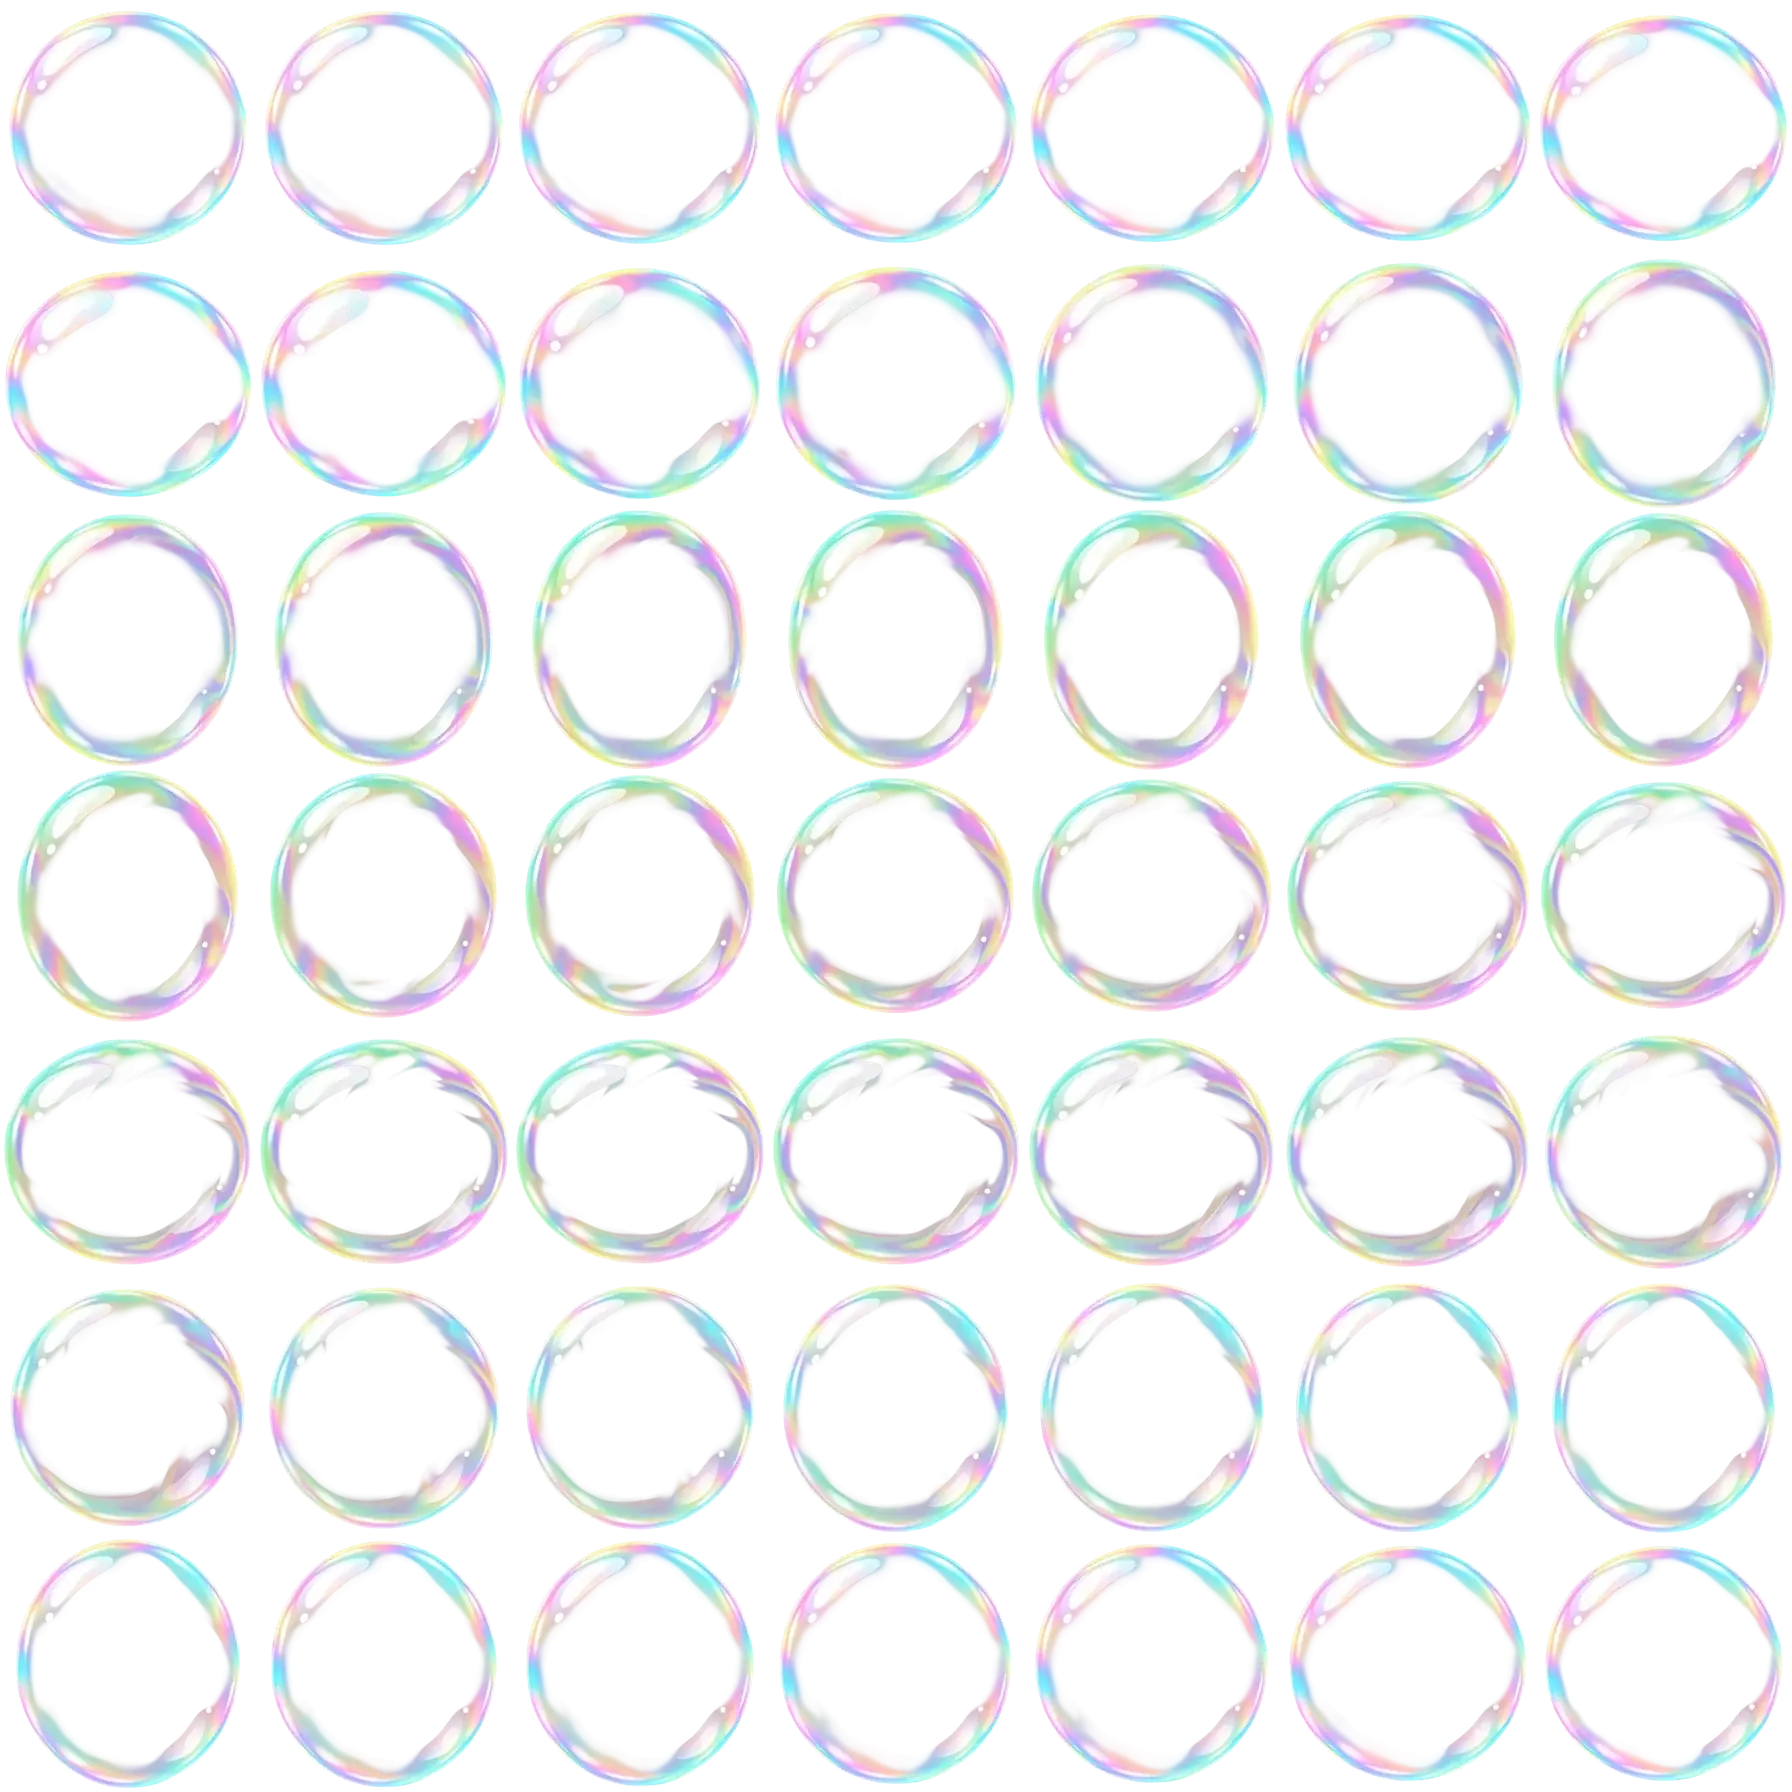
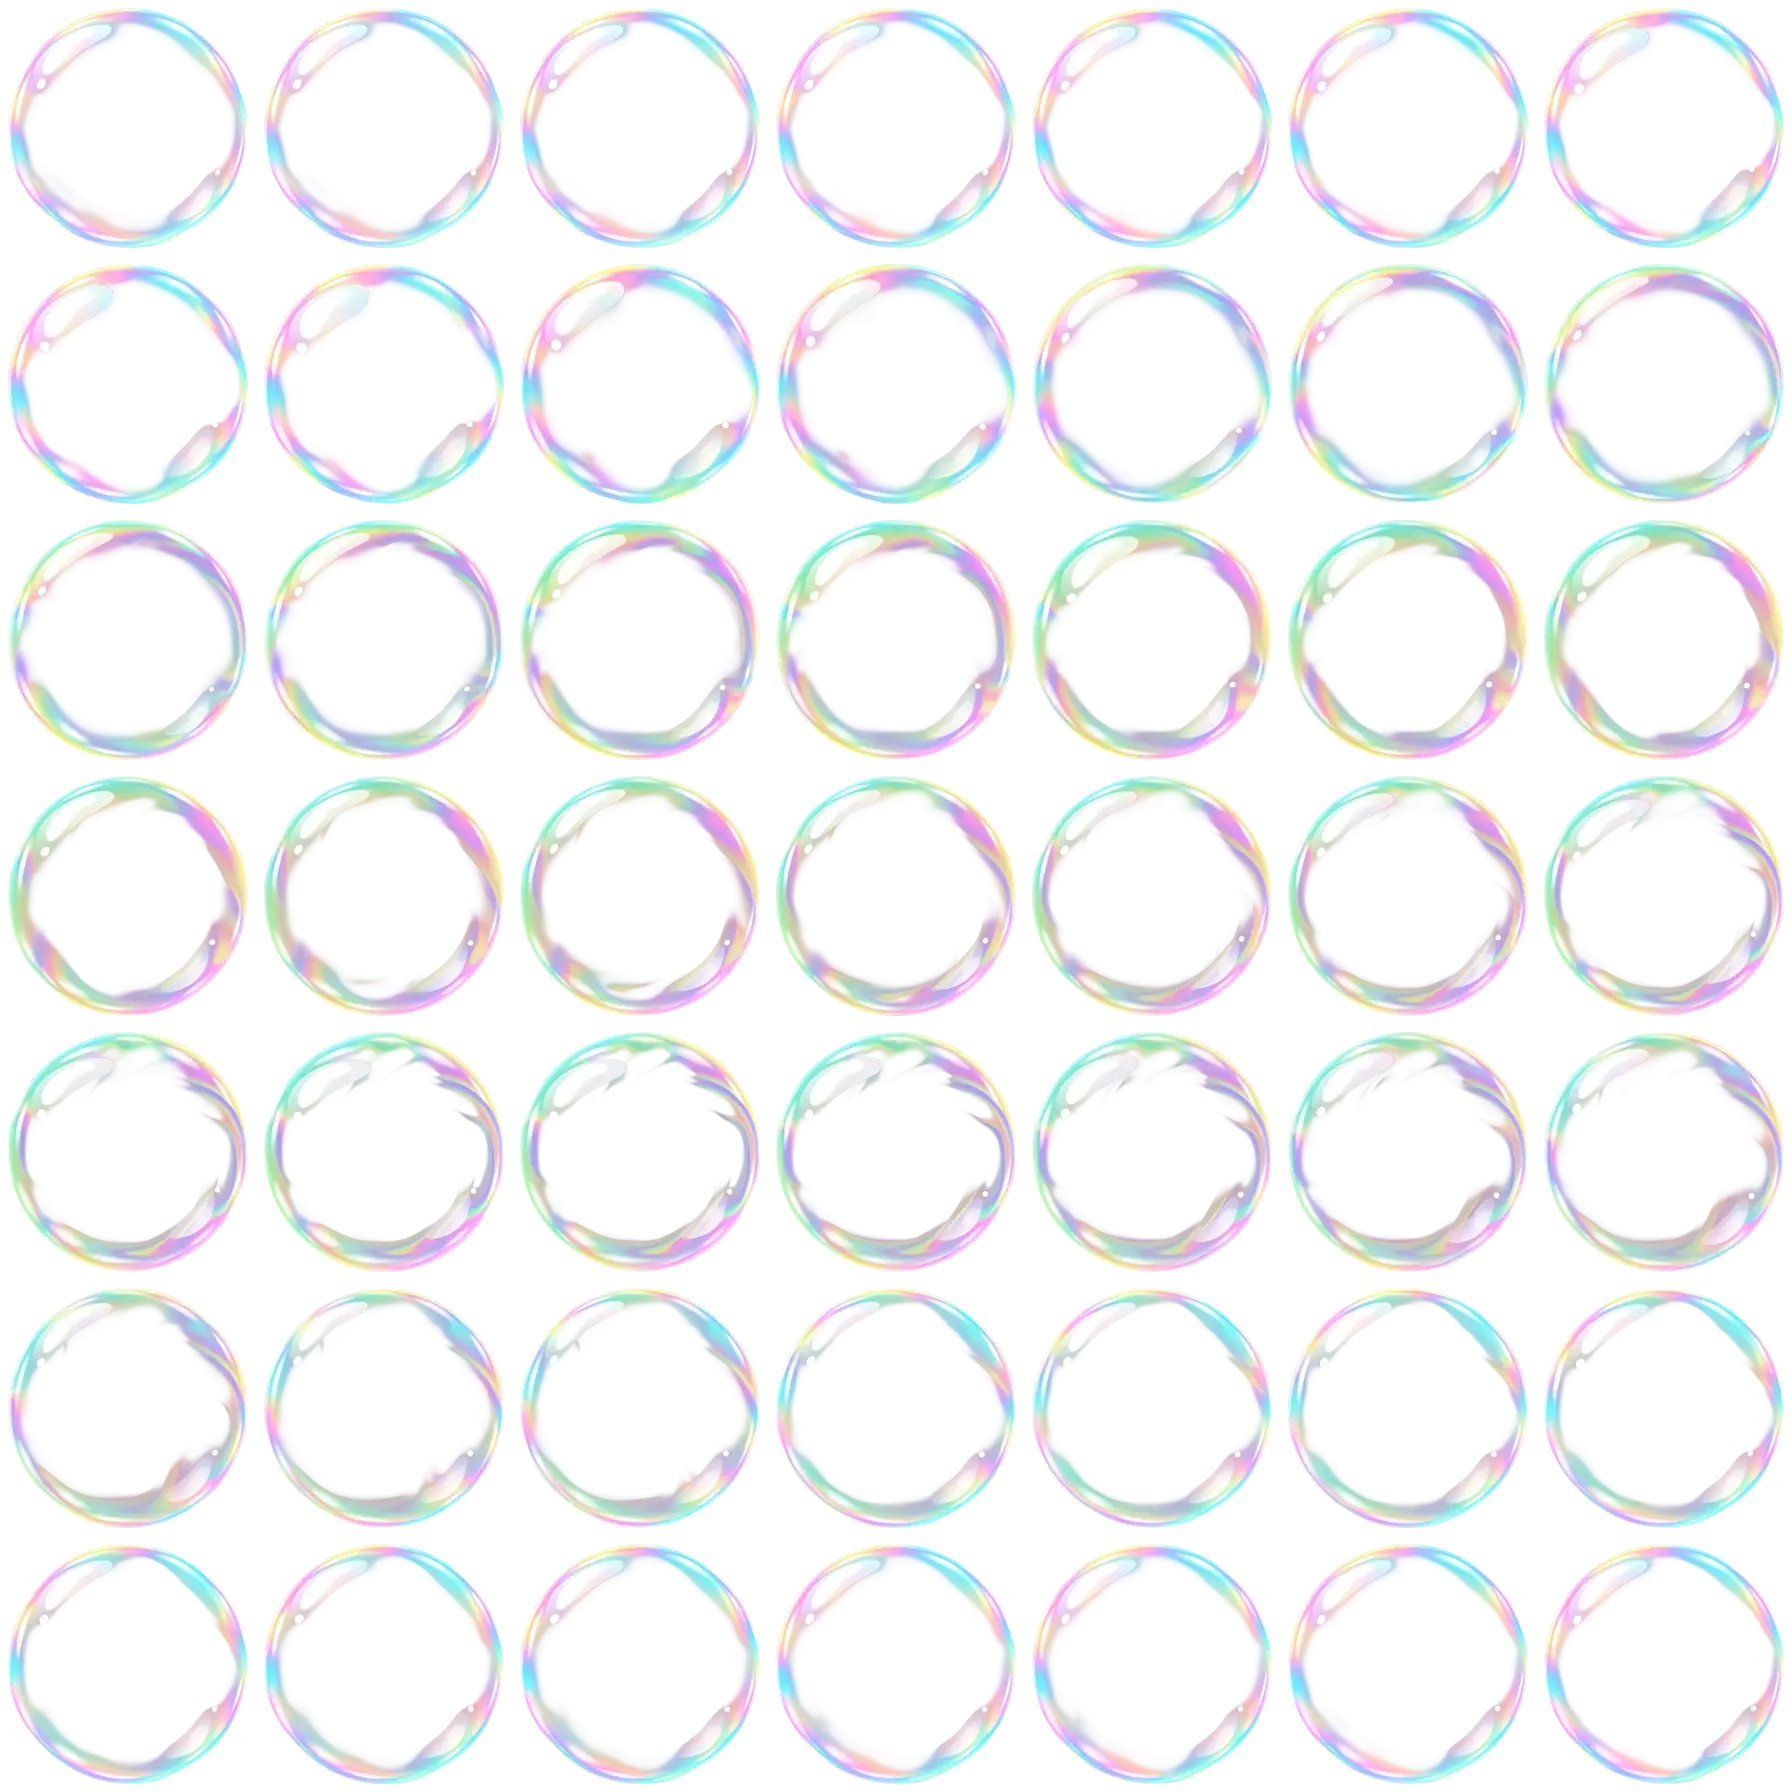
v0.9.172 비누방울 늘 동그랗게·방울이가 통째로 들어가는 크기(몸 크기 따라 같이 변함)

diff --git a/index.html b/index.html
@@ -2358,7 +2358,7 @@
   const elTitle = document.getElementById("overTitle");
   const coinNote = document.getElementById("coinNote");
 
-  const GAME_VERSION = "v0.9.171";
+  const GAME_VERSION = "v0.9.172";
   /* 제작사 스플래시(bamhobak friends 로고) — 2026-09-20 끔. 다시 켜려면 true */
   const SPLASH_USE = false;   // 코드를 고칠 때마다 뒤 두 자리를 올린다
   document.getElementById("ver").textContent = GAME_VERSION;
@@ -2768,9 +2768,9 @@
      왼쪽을 볼 때는 그림을 뒤집으므로 가로 치우침도 함께 뒤집는다. */
   /* v0.9.171 방울 그림 시트 — 7x7 칸(256px), 3초에 한 바퀴 */
   let bubbleSheet = null;
-  { const im = new Image(); im.onload = () => { bubbleSheet = im; }; im.src = "assets/bubble_sheet.webp?1"; }
+  { const im = new Image(); im.onload = () => { bubbleSheet = im; }; im.src = "assets/bubble_sheet.webp?2"; }
   function drawBubbleImg(x, y, r, now, alpha) {
-    const f = Math.floor((now / 3000 % 1) * 49), C = 256, d = r * 2 * 256 / 236;
+    const f = Math.floor((now / 3000 % 1) * 49), C = 256, d = r * 2 * 256 / 240;
     ctx.save(); ctx.globalAlpha *= alpha;
     ctx.drawImage(bubbleSheet, (f % 7) * C, Math.floor(f / 7) * C, C, C, x - d / 2, y - d / 2, d, d);
     ctx.restore();
@@ -16678,8 +16678,11 @@
         const br = hasB ? sh * spr.brr : player.r * hitMul() + 20;
         const bcx2 = hasB ? sw * (spr.bcx - spr.cx) * (flip ? -1 : 1) : 0;
         const bcy2 = hasB ? (FOOT - sh + sh * spr.bcy) : player.hy;
-        drawBubbleImg(bcx2, bcy2, br * 1.06, now, 0.92);
-        if (bubLayers > 1) drawBubbleImg(bcx2, bcy2, br * 1.06 + 9, now + 1500, 0.55);   // 두 겹 — 바깥에 한 겹 더
+        /* v0.9.172 방울이 그림이 통째로 들어가는 크기 — 그림 크기(sw·sh, 커지면 같이 커진다)에서 정한다. 가운데는 그림 한가운데 */
+        const cx3 = sw * (0.5 - spr.cx) * (flip ? -1 : 1), cy3 = FOOT - sh * 0.5;
+        const rr = Math.max(br * 1.06, Math.hypot(sw, sh) * 0.46);
+        drawBubbleImg(cx3, cy3, rr, now, 0.92);
+        if (bubLayers > 1) drawBubbleImg(cx3, cy3, rr + 9, now + 1500, 0.55);   // 두 겹 — 바깥에 한 겹 더
       } else if (bubbleOn) {                       // 비누방울 보호막 — 몸에 딱 맞춘다
         const hasB = spr.brr !== undefined;
         const br = hasB ? sh * spr.brr : player.r * hitMul() + 20;

diff --git a/README.md b/README.md
@@ -5,7 +5,7 @@
 👉 **플레이: https://bamhobak.github.io/ddongpi/**
 
 > 이 문서는 `index.html` 의 실제 값을 옮겨 적은 것입니다. 숫자를 고쳤으면 여기도 같이 고쳐 주세요.
-> 마지막으로 맞춰 본 판: **v0.9.171**
+> 마지막으로 맞춰 본 판: **v0.9.172**
 
 ## ⚔ 대전모드 (v0.8.24 한 폰 · v0.8.25 두 폰)
 시작하기를 누르면 **[방 만들기] · [방 참가](방 번호 4자리) · [한 폰으로 둘이서]** 를 고릅니다.
